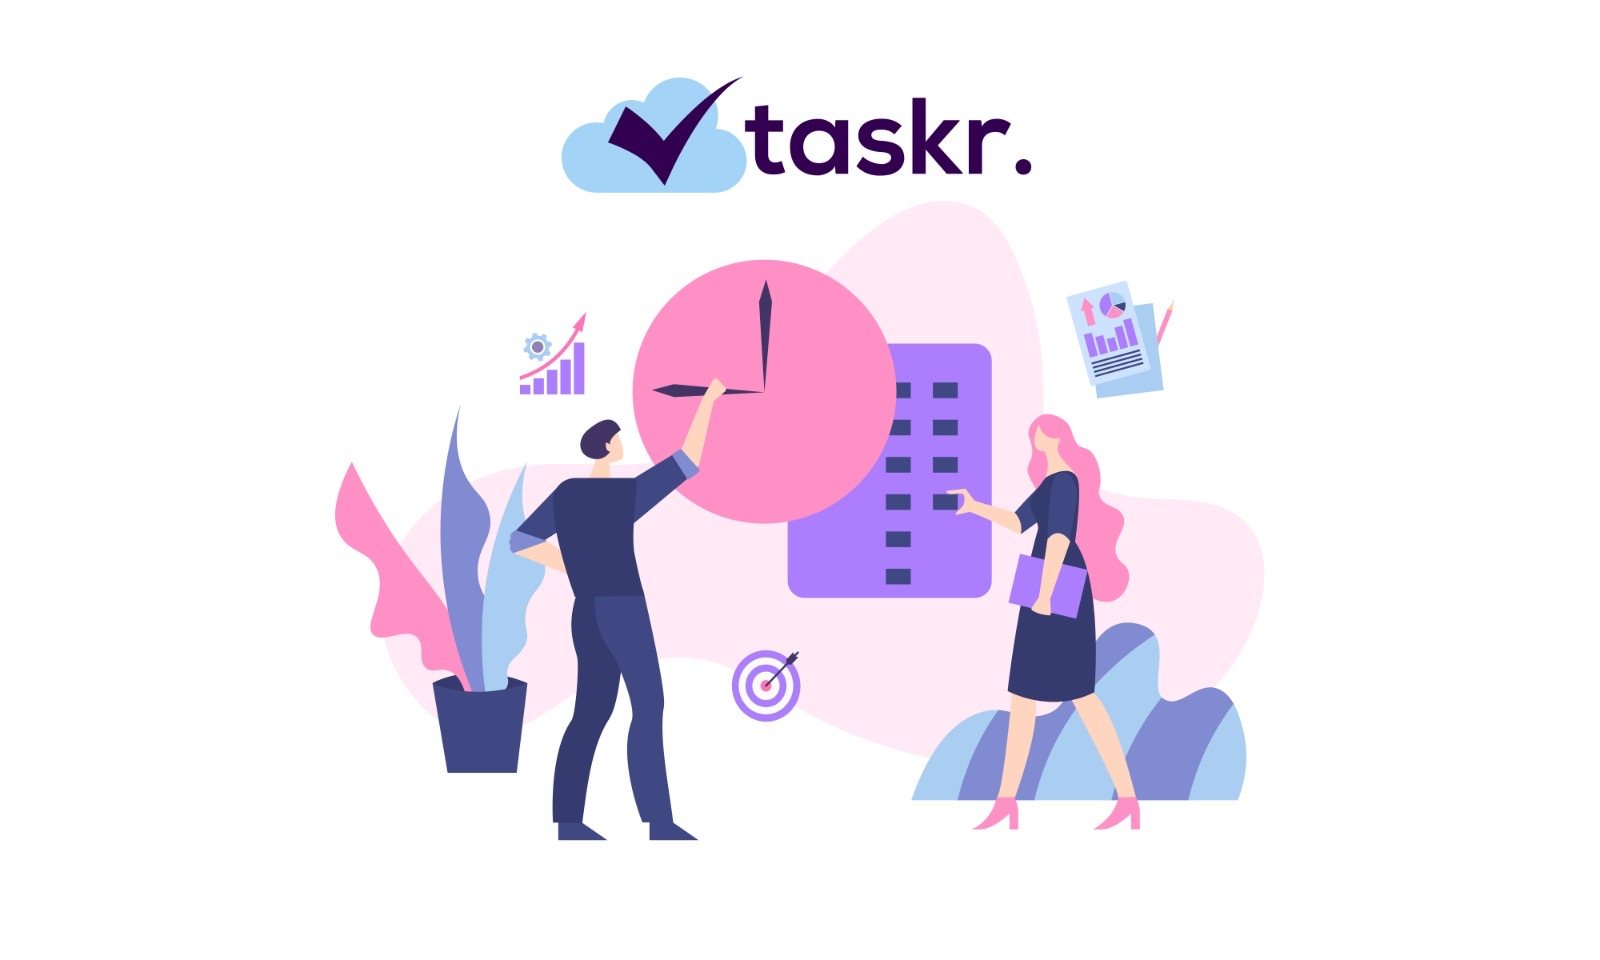
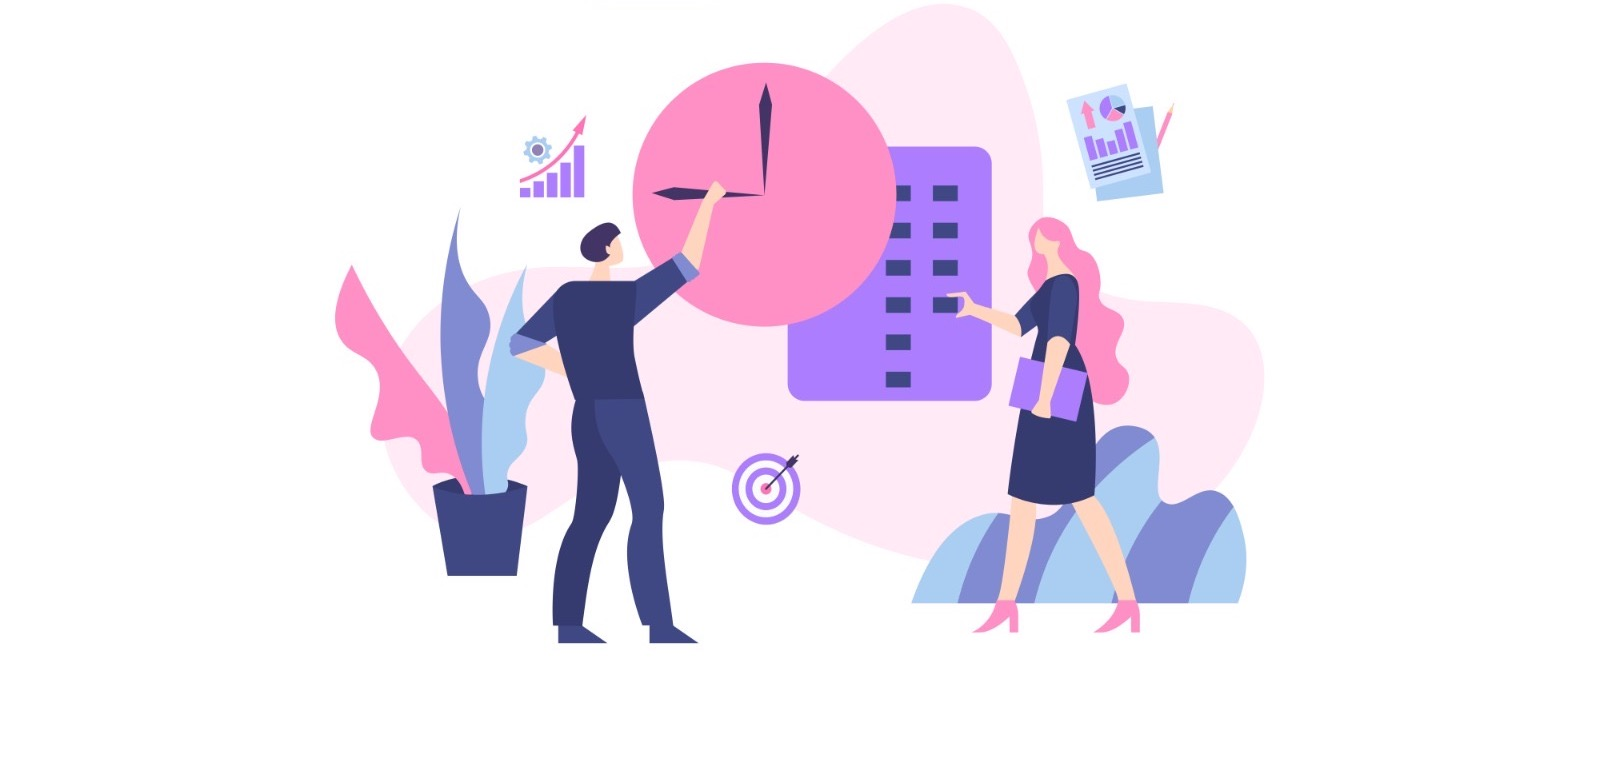
new landing page complete

Changed region(s): [[0.1875, 0.0603, 0.7812, 0.8742]]

diff --git a/src/Components/css/styling.css b/src/Components/css/styling.css
@@ -1,11 +1,11 @@
 .bg-img {
-  background-image: url("/images/back2.JPG");
+  background-image: url("/images/back3.JPG");
   background-repeat: no-repeat;
   background-position: center;
   background-size: cover;
   background-color: white;
-  height: 600px;
-  width: 650px;
+  height: 1000px;
+  width: 1100px;
   padding: 0;
   margin: 0;
   vertical-align: middle !important;
@@ -13,7 +13,8 @@
   flex-direction: row; */
   /* padding-top: 150px; */
   position: relative;
-  top: 90px;
+  top: 100px;
+  left: 100px;
 
 }
 
@@ -23,16 +24,16 @@
 
 .btn-prp2 {
   border-radius: 20px !important;
-  color:  #2F0152;
-  background-color: #2F0152 !important;
-  border-color: #2F0152 !important;
-
+  color:  #FF78BA;
+  background-color: #FF78BA !important;
+  border-color: #FF78BA !important;
+  width: 200px !important;
 }
 
 .welcome {
   padding-top: 250px;
   width: 400px;
-  padding-left: 36px;
+  padding-left: 72px;
 }
 
 .landing-home {

diff --git a/src/Components/css/styling.jsx b/src/Components/css/styling.jsx
@@ -15,13 +15,12 @@ export default class Style extends Component {
         <div className="landing-home" >
           <div className="welcome" >
 
-          <h1>Hello, world!</h1>
+          <h1>To-Do Lists, Tasks, Reminders & more</h1>
           <p>
-            This is a simple hero unit, a simple jumbotron-style component for
-            calling extra attention to featured content or information.
+            Reprogram your brain and automate the important rituals in your life so you have more time for what really matters.
           </p>
           <p>
-            <Button variant="primary btn-prp2">Learn more</Button>
+            <Button variant="primary btn-prp2">Try if for Free</Button>
           </p>
           </div>
           

diff --git a/src/Components/css/navBar.css b/src/Components/css/navBar.css
@@ -2,7 +2,7 @@
   /* params: border width, style, color */
   /* border: 2px solid red; */
   background-color: rgb(0, 0, 0);
-  background-color: transparent;
+  background-color: rgba(255, 255, 255, 0.700);
   /* remove container-fluid extra right padding */
   /* padding: 0; */
   display: flex;
@@ -11,7 +11,7 @@
    /* center the elements based on vertical axis */
   align-items: center;
   height: 4rem;
-  padding: 3rem 36px !important;
+  padding: 3rem 72px !important;
   position: fixed;
   /* opacity: 10%; */
   z-index: 100;
